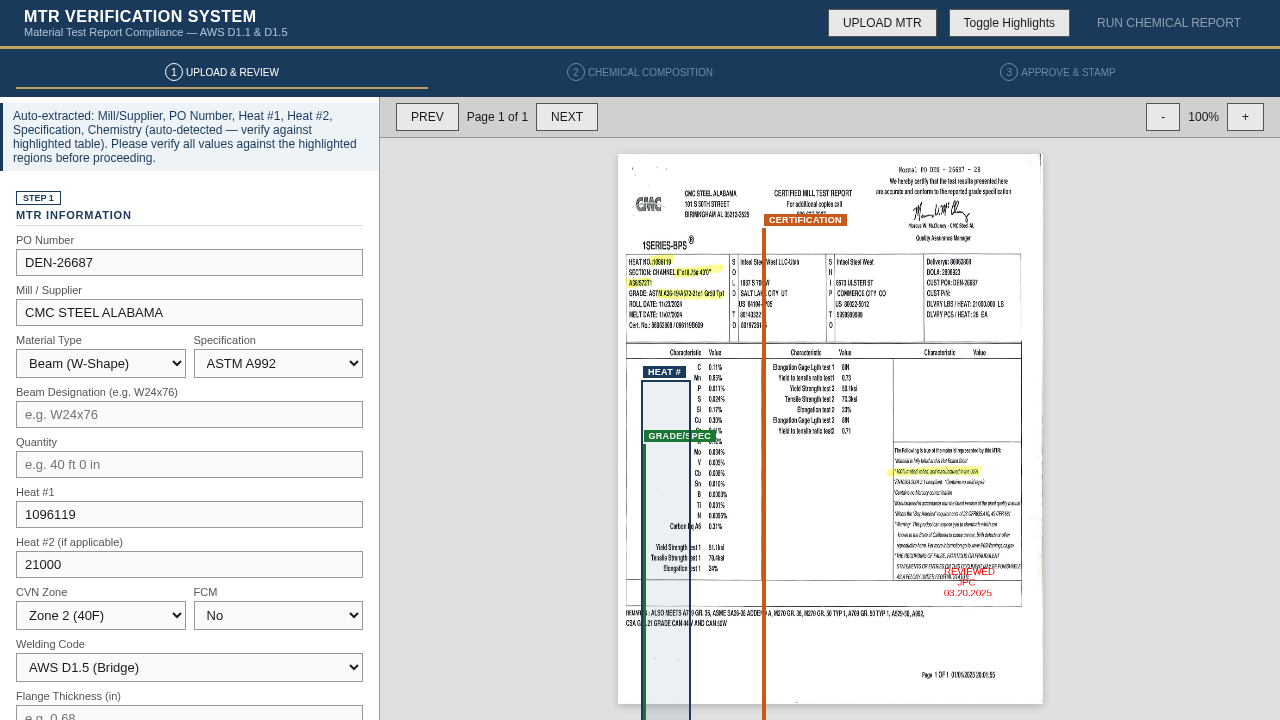
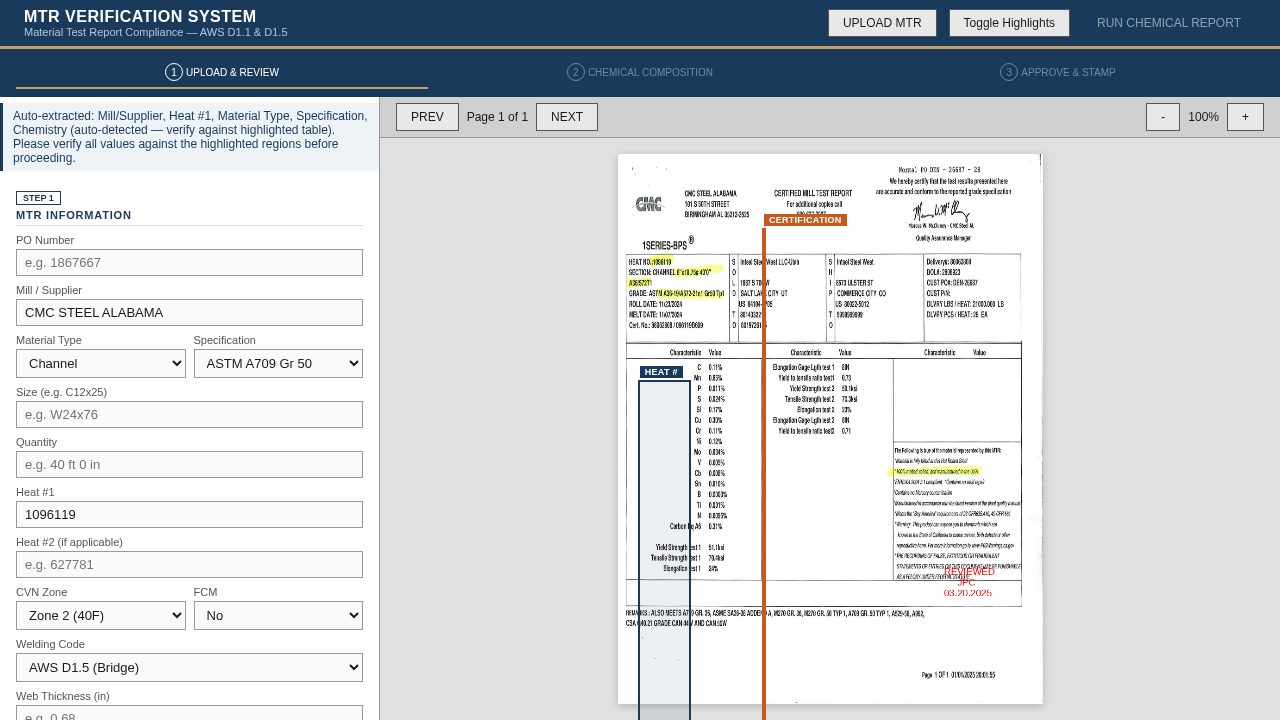
Auto-commit agent changes

diff --git a/conversations/6a6b81c94bc0607c48a32cc0/mtr_verifier.html b/conversations/6a6b81c94bc0607c48a32cc0/mtr_verifier.html
@@ -678,7 +678,7 @@ async function extractMtrData() {
       for (var p = 1; p <= numPages; p++) {
         if (!pageContentCache[p] || pageContentCache[p].type !== 'scanned-pending') continue;
         area.innerHTML = '<div class="extract-status">Running OCR on page ' + p + ' of ' + numPages + ' (scanned document)...</div>';
-        var ocrScale = 3.0;
+        var ocrScale = 4.0;
         var opage = await pdfDoc.getPage(p);
         var ovp = opage.getViewport({ scale: ocrScale });
         var ocrCanvas = document.createElement('canvas');
@@ -727,96 +727,188 @@ async function extractMtrData() {
 
 function parseMtrText(text, area) {
   var found = [];
-  // Normalize: collapse whitespace but keep newlines as single spaces too (OCR line breaks are unreliable)
   var norm = text.replace(/[ \t]+/g, ' ').replace(/\s*\n\s*/g, ' \n ').trim();
   var flat = norm.replace(/\n/g, ' ').replace(/\s+/g, ' ');
 
   // ---------- MILL / SUPPLIER ----------
   var millPatterns = [
-    /NUCOR[\-\s]?YAMATO\s*STEEL\s*(?:CO\.?|COMPANY)?/i,
-    /NUCOR\s+STEEL\s+\w+(?:,?\s*INC\.?)?/i,
-    /CMC\s+STEEL\s*\w*/i,
-    /ATLAS\s+TUBE\s*\w*/i,
-    /ARCELORMITTAL[\w\s]*/i,
-    /GERDAU[\w\s]*/i,
-    /SSAB[\w\s]*/i,
-    /STEEL\s+DYNAMICS[\w\s]*/i,
-    /CHARTER\s+STEEL[\w\s]*/i,
-    /EVRAZ[\w\s]*/i,
-    /INTSEL\s+STEEL[\w\s]*/i
+    [/NUCOR[\-\s]?YAMATO\s*STEEL\s*(?:CO\.?|COMPANY)?/i, 'Nucor-Yamato Steel'],
+    [/NUCOR\s+STEEL\s+TUSCALOOSA/i, 'Nucor Steel Tuscaloosa'],
+    [/NUCOR\s+STEEL[\w\s,\.]*INC\.?/i, null],
+    [/CMC\s+STEEL\s*\w*/i, null],
+    [/ATLAS\s*TUBE/i, 'Atlas Tube'],
+    [/Al\s*Ti\s*be/i, 'Atlas Tube'],
+    [/DIVISION\s+OF\s+ZEKELMAN/i, 'Atlas Tube'],
+    [/BLYTHEVILLE.*ARKANSAS/i, 'Atlas Tube'],
+    [/ZEKELMAN[\w\s]*/i, 'Zekelman Industries'],
+    [/ARCELORMITTAL[\w\s]*/i, null],
+    [/GERDAU[\w\s]*/i, null],
+    [/SSAB[\w\s]*/i, null],
+    [/STEEL\s+DYNAMICS[\w\s]*/i, null],
+    [/CHARTER\s+STEEL[\w\s]*/i, null],
+    [/EVRAZ[\w\s]*/i, null],
+    [/INTSEL\s+STEEL\s+\w+/i, null]
   ];
   for (var mi = 0; mi < millPatterns.length; mi++) {
-    var mm = flat.match(millPatterns[mi]);
-    if (mm) { document.getElementById('mill-name').value = mm[0].trim().replace(/\s+/g,' '); found.push('Mill/Supplier'); break; }
+    var mm = flat.match(millPatterns[mi][0]);
+    if (mm) {
+      var millName = millPatterns[mi][1] || mm[0].trim().replace(/\s+/g,' ').substring(0, 50);
+      document.getElementById('mill-name').value = millName;
+      found.push('Mill/Supplier');
+      break;
+    }
   }
 
   // ---------- PO NUMBER ----------
-  // Covers: "Customer P.O. 841392", "CUST PO#: 34182", "PO NO 1707213", "Purchase Order: DEN-27239", "Normal PO DEN - 26687 - 28"
   var poPatterns = [
     /CUST(?:OMER)?\.?\s*P\.?\s*O\.?\s*(?:NO\.?|NUMBER|#)?\s*[:\-]?\s*([A-Z]{0,4}\-?\d{4,10})/i,
     /\bP\.?\s*O\.?\s*(?:NO\.?|NUMBER|#)\s*[:\-]?\s*([A-Z]{0,4}\-?\d{4,10})/i,
     /PURCHASE\s+ORDER\s*[:\-]?\s*([A-Z]{0,4}\-?\d{4,10})/i,
-    /\bPO\s*[:#\-]\s*([A-Z]{0,4}\-?\d{4,10})/i
+    /\bPO\s*[:#\-]\s*([A-Z]{0,4}\-?\d{4,10})/i,
+    /Normal\s*PO\s*([A-Z]{0,4}\s*\-?\s*\d{4,10})/i
   ];
   for (var pi = 0; pi < poPatterns.length; pi++) {
     var pm = flat.match(poPatterns[pi]);
-    if (pm) { document.getElementById('po-number').value = pm[1].trim(); found.push('PO Number'); break; }
+    if (pm) {
+      document.getElementById('po-number').value = pm[1].trim().replace(/\s+/g,'');
+      found.push('PO Number');
+      break;
+    }
   }
 
   // ---------- HEAT NUMBERS ----------
-  // Covers: "Heat# 496186", "HEAT NO.:1097247", "Heat/Slab Number 243539-01", "Heat No 822K36240"
+  // OCR-tolerant: handles t->1, s->5, l->1 substitutions. Excludes weight/qty numbers.
   var heatNums = [];
-  var heatPatterns = [
-    /HEAT\s*(?:\/\s*SLAB)?\s*(?:NO\.?|NUMBER|#)?\s*[:\-]?\s*([A-Z0-9]{5,10})/gi
-  ];
+  // First try: find "HEAT" label followed by a number (most reliable)
+  var heatLabelRe = /HEAT\s*(?:\/\s*SLAB)?\s*(?:NO\.?|NUMBER|#)?\s*[:\-]?\s*([A-Z0-9tTsSlIoO]{5,10})/gi;
   var hm;
-  heatPatterns.forEach(function(re) {
-    while ((hm = re.exec(flat)) !== null) {
-      var val = hm[1].replace(/[^A-Z0-9]/gi, '');
-      // Filter obvious non-heat matches (too short/long, or pure section words)
-      if (val.length >= 5 && val.length <= 10 && heatNums.indexOf(val) === -1) heatNums.push(val);
+  while ((hm = heatLabelRe.exec(flat)) !== null) {
+    var raw = hm[1];
+    // Fix common OCR substitutions in heat numbers
+    var val = raw.replace(/t/gi, '1').replace(/I/g, '1').replace(/o/gi, '0').replace(/[^A-Z0-9]/gi, '');
+    // Must be mostly digits (real heat numbers)
+    var digitCount = (val.match(/\d/g) || []).length;
+    if (val.length >= 5 && val.length <= 10 && digitCount >= 4 && heatNums.indexOf(val) === -1) {
+      // Exclude obvious non-heat values (weights, dates, etc.)
+      var ctx = flat.substring(Math.max(0, hm.index - 20), hm.index);
+      if (!/LBS|PCS|LB\s|WEIGHT|DLVRY|Date|Total/i.test(ctx)) {
+        heatNums.push(val);
+      }
     }
-  });
+  }
+  // Fallback: look for "Slab" numbers (Nucor Tuscaloosa format: "243539-01")
+  if (heatNums.length === 0) {
+    var slabRe = /SLAB\s*(?:NO\.?|NUMBER|#)?\s*[:\-]?\s*(\d{5,7})\-?\d*/gi;
+    while ((hm = slabRe.exec(flat)) !== null) {
+      if (heatNums.indexOf(hm[1]) === -1) heatNums.push(hm[1]);
+    }
+  }
+  // Fallback: for Nucor Tuscaloosa, heat number appears in table row like "243539-01"
+  if (heatNums.length === 0) {
+    var tableHeatRe = /\b(\d{6})\-0\d\b/g;
+    while ((hm = tableHeatRe.exec(flat)) !== null) {
+      var ctx2 = flat.substring(Math.max(0, hm.index - 100), hm.index + 100);
+      if (/Heat|Slab|Certified/i.test(ctx2) && heatNums.indexOf(hm[1]) === -1) heatNums.push(hm[1]);
+    }
+  }
   if (heatNums[0]) { document.getElementById('heat1').value = heatNums[0]; found.push('Heat #1'); }
   if (heatNums[1]) { document.getElementById('heat2').value = heatNums[1]; found.push('Heat #2'); }
 
   // ---------- SHAPE / TYPE DESIGNATION ----------
-  // Beam: W18X65.0, Channel: C8X1875 (i.e. C8X18.75), Angle: L4X3X.25, HSS: HSS10SQX375 / 10.0x10.0x.375, Plate: dimensions
-  var sizeMatch = flat.match(/\b([WHC]\d{1,2}\s*[Xx]\s*\d{1,3}(?:\.\d+)?|L\s*\d(?:\.\d+)?\s*[Xx]\s*\d(?:\.\d+)?\s*[Xx]\s*[\d\/\.]+|HSS\s*\d+(?:\.\d+)?\s*[Xx]\s*\d+(?:\.\d+)?\s*[Xx]\s*[\d\/\.]+)\b/i);
-  if (sizeMatch) { document.getElementById('beam-type').value = sizeMatch[1].toUpperCase().replace(/\s+/g,''); found.push('Type/Size'); }
-
-  // Plate dimensions e.g. "0.3750 IN x 96.000 IN x 240.000 IN"
-  var plateMatch = flat.match(/(\d+\.\d+)\s*IN\s*[Xx]\s*(\d+\.\d+)\s*IN\s*[Xx]\s*(\d+\.\d+)\s*IN/i);
-  if (plateMatch && !sizeMatch) {
-    document.getElementById('beam-type').value = plateMatch[1] + 'x' + plateMatch[2] + 'x' + plateMatch[3];
-    found.push('Type/Size (Plate dimensions)');
+  var sizeMatch = null, sizeStr = '';
+  // Pattern 0: "SECTION: ANG 4 X 3x1/4" or "SECTION: CHANNEL 8X18.75" (CMC format)
+  var sectionMatch = flat.match(/SECTION\s*[:\-]?\s*(?:ANG(?:LE)?\s*)?(\d\s*[Xx]\s*\d(?:\.\d+)?\s*[Xx]\s*[\d\/\.]+|\d\s*[Xx]\s*\d{1,3}(?:\.\d+)?)/i);
+  if (sectionMatch) {
+    sizeStr = sectionMatch[1].toUpperCase().replace(/\s+/g,'');
+  }
+  // Pattern 1: W18X65, W24x76, C8x18.75 etc. (standard AISC shapes)
+  if (!sizeStr) {
+    sizeMatch = flat.match(/\b([WHC]\d{1,2}\s*[Xx]\s*\d{1,3}(?:\.\d+)?)\b/);
+    if (sizeMatch) sizeStr = sizeMatch[1].toUpperCase().replace(/\s+/g,'');
+  }
+  // Pattern 2: L4X3X1/4 or L4 X 3 X .25 (angle)
+  if (!sizeStr) {
+    sizeMatch = flat.match(/\bL\s*(\d)\s*[Xx]\s*(\d)\s*[Xx]\s*([\d\/\.]+)/i);
+    if (sizeMatch) sizeStr = 'L' + sizeMatch[1] + 'X' + sizeMatch[2] + 'X' + sizeMatch[3];
+  }
+  // Pattern 3: HSS10SQX375 or HSS 10x10x.375
+  if (!sizeStr) {
+    sizeMatch = flat.match(/HSS\s*(\d+(?:\.\d+)?)\s*[XxSQ\s]+\s*(\d+(?:\.\d+)?)?\s*[Xx]\s*([\d\.\/]+)/i);
+    if (sizeMatch) sizeStr = 'HSS' + sizeMatch[1] + (sizeMatch[2] ? 'X' + sizeMatch[2] : 'SQ') + 'X' + sizeMatch[3];
+  }
+  // Pattern 4: Plate dims "0.3750 IN x 96.000 IN x 240.000 IN" or "0.375 x 96 x 240"
+  if (!sizeStr) {
+    sizeMatch = flat.match(/(\d+\.\d+)\s*IN\s*[Xx]\s*(\d+\.\d+)\s*IN\s*[Xx]\s*(\d+\.\d+)\s*IN/i);
+    if (sizeMatch) sizeStr = sizeMatch[1] + 'x' + sizeMatch[2] + 'x' + sizeMatch[3];
+  }
+  if (sizeStr) {
+    document.getElementById('beam-type').value = sizeStr;
+    found.push('Type/Size');
   }
 
-  // ---------- QUANTITY / LENGTH (per user rule: do not highlight, but still capture as data if present) ----------
-  var qtyMatch = flat.match(/(\d+\s*ft\s*\d*\s*in|\d+'\s*-?\s*\d*\s*\d*\/?\d*")/i);
-  if (qtyMatch) { document.getElementById('quantity').value = qtyMatch[1].trim(); found.push('Quantity'); }
-
-  // ---------- MATERIAL TYPE + SPEC ----------
-  var specDetected = null, matDetected = null;
-  if (/A709[\s\-\/]*(?:GR(?:ADE)?\.?\s*)?50W|A588.{0,25}50W/i.test(flat)) { specDetected = 'A709-50W'; }
-  else if (/A500[\s\-]*(?:GR(?:ADE)?\.?\s*)?B\s*(?:&|AND)?\s*C?/i.test(flat)) { specDetected = 'A500-B'; matDetected = 'hss-square'; }
-  else if (/A588/i.test(flat)) { specDetected = 'A588'; }
-  else if (/A992/i.test(flat)) { specDetected = 'A992'; }
-  else if (/A709[\s\-\/]*(?:GR(?:ADE)?\.?\s*)?50\b/i.test(flat)) { specDetected = 'A709-50'; }
-  else if (/A572[\s\-\/]*(?:GR(?:ADE)?\.?\s*)?50/i.test(flat)) { specDetected = 'A572-50'; }
-  else if (/A36\b/i.test(flat)) { specDetected = 'A36'; }
-
-  if (sizeMatch && /^HSS/i.test(sizeMatch[1])) matDetected = matDetected || 'hss-square';
-  else if (sizeMatch && /^W/i.test(sizeMatch[1])) matDetected = matDetected || 'beam';
-  else if (sizeMatch && /^L/i.test(sizeMatch[1])) matDetected = matDetected || 'angle';
-  else if (sizeMatch && /^C/i.test(sizeMatch[1])) matDetected = matDetected || 'channel';
-  else if (plateMatch) matDetected = matDetected || 'plate';
-  else if (/\bPLATE\b/i.test(flat)) matDetected = matDetected || 'plate';
-
+  // ---------- MATERIAL TYPE ----------
+  var matDetected = null;
+  if (/\bHSS\b|\bTUBE\b|\bSQUARE\s*TUBE/i.test(flat)) matDetected = 'hss-square';
+  else if (/\bANGLE\b|\bANG\s+\d/i.test(flat)) matDetected = 'angle';
+  else if (/\bCHANNEL\b|\bCHANNEL\s+\d/i.test(flat)) matDetected = 'channel';
+  else if (/\bPLATE\b|\bHOT\s*ROL\s*PLATE/i.test(flat)) matDetected = 'plate';
+  else if (/\bBEAM\b|\bW\d+\s*[Xx]\s*\d/i.test(flat)) matDetected = 'beam';
+  else if (sizeStr && /^W/i.test(sizeStr)) matDetected = 'beam';
+  else if (sizeStr && /^L/i.test(sizeStr)) matDetected = 'angle';
+  else if (sizeStr && /^C/i.test(sizeStr)) matDetected = 'channel';
+  else if (sizeStr && /^HSS/i.test(sizeStr)) matDetected = 'hss-square';
   if (matDetected) {
     document.getElementById('mat-type').value = matDetected;
     onMaterialChange();
     found.push('Material Type');
+  }
+
+  // ---------- SPECIFICATION ----------
+  var specDetected = null;
+
+  // STEP 1: GRADE: label — the spec printed next to "GRADE:" is always the primary spec (most reliable)
+  var gradeLabelMatch = flat.match(/GRADE\s*[:\-]?\s*(ASTM\s*)?(A\d{3}[\w\-\/\.\s]*(?:Gr(?:ade)?\.?\s*)?\d{0,2}[Ww]?)/i);
+  if (gradeLabelMatch) {
+    var gradeSpec = gradeLabelMatch[2].toUpperCase().replace(/\s+/g, '');
+    var specMatch2 = gradeSpec.match(/A(\d{3})/);
+    if (specMatch2) {
+      var baseSpec = 'A' + specMatch2[1];
+      if (/50W/i.test(gradeSpec)) specDetected = 'A709-50W';
+      else if (baseSpec === 'A709' && /50/.test(gradeSpec)) specDetected = 'A709-50';
+      else if (baseSpec === 'A588') specDetected = 'A588';
+      else if (baseSpec === 'A572' && /50/.test(gradeSpec)) specDetected = 'A572-50';
+      else if (baseSpec === 'A500') specDetected = 'A500-B';
+      else if (baseSpec === 'A992') specDetected = 'A992';
+      else if (baseSpec === 'A36') specDetected = 'A36';
+      else if (baseSpec === 'A529' && /50/.test(gradeSpec)) specDetected = 'A572-50';
+    }
+  }
+
+  // STEP 2: If no GRADE: label found, fall back to pattern matching (less reliable — may hit remarks)
+  if (!specDetected) {
+    if (/\bA709[\s\-\/]*(?:\d{2})?[\s\-\/]*(?:GR(?:ADE)?\.?\s*)?50W\b/i.test(flat)) specDetected = 'A709-50W';
+    else if (/\bA588\b/i.test(flat)) {
+      var a588pos = flat.search(/\bA588\b/i);
+      var ctxAround = flat.substring(Math.max(0, a588pos - 30), a588pos + 40);
+      if (!/ALSO\s+MEETS|REMARKS/i.test(ctxAround)) specDetected = 'A588';
+    }
+    else if (/\b588\b/.test(flat) && /PLATE|COIL|HOT\s*ROL/i.test(flat)) specDetected = 'A588';
+    else if (/\bA709[\s\-\/]*(?:\d{2})?[\s\-\/]*(?:GR(?:ADE)?\.?\s*)?50\b/i.test(flat)) {
+      var a709pos = flat.search(/\bA709[\s\-\/]*(?:\d{2})?[\s\-\/]*(?:GR(?:ADE)?\.?\s*)?50\b/i);
+      var ctx709 = flat.substring(Math.max(0, a709pos - 30), a709pos + 50);
+      if (!/ALSO\s+MEETS|REMARKS/i.test(ctx709)) specDetected = 'A709-50';
+    }
+    else if (/\bA572[\s\-\/]*(?:GR(?:ADE)?\.?\s*)?50/i.test(flat)) specDetected = 'A572-50';
+    else if (/\bA500[\s\-\/]*(?:GR(?:ADE)?\.?\s*)?[BC]/i.test(flat)) { specDetected = 'A500-B'; matDetected = matDetected || 'hss-square'; }
+    else if (/\bA992\b/i.test(flat)) specDetected = 'A992';
+    else if (/\bA36\b/i.test(flat)) specDetected = 'A36';
+  }
+
+  // STEP 3: A709-50W override — only if A709 Gr50W appears BEFORE A588 (both as clear matches)
+  var a709Idx = flat.search(/\bA709[^\n]{0,20}50W/i);
+  var a588Idx = flat.search(/\bA588\b/i);
+  if (a709Idx !== -1 && a588Idx !== -1 && a709Idx < a588Idx) {
+    specDetected = 'A709-50W';
   }
   if (specDetected) {
     var sel = document.getElementById('spec-select');
@@ -828,7 +920,6 @@ function parseMtrText(text, area) {
   }
 
   // ---------- CHEMISTRY ----------
-  // Strategy A: "Element  0.NN%" or "Element: 0.NN" label:value pairs (CMC-style) — most reliable, try first.
   var elemAliases = {
     C:'C', MN:'Mn', P:'P', S:'S', SI:'Si', CU:'Cu', NI:'Ni', CR:'Cr', MO:'Mo',
     V:'V', CB:'Cb', NB:'Cb', SN:'Sn', B:'B', TI:'Ti', N:'N', N2:'N', CA:'Ca',
@@ -836,18 +927,33 @@ function parseMtrText(text, area) {
   };
   var elemKeys = Object.keys(elemAliases).sort(function(a,b){ return b.length - a.length; });
 
+  // Range validation — reject physically impossible values
+  var elemRanges = {
+    C: [0, 0.25], MN: [0, 2.0], P: [0, 0.10], S: [0, 0.08], SI: [0, 1.0],
+    CU: [0, 1.0], NI: [0, 1.0], CR: [0, 1.5], MO: [0, 0.5], V: [0, 0.15],
+    CB: [0, 0.05], NB: [0, 0.05], SN: [0, 0.05], B: [0, 0.005], TI: [0, 0.05],
+    N: [0, 0.02], CA: [0, 0.01], AL: [0, 0.1], ZR: [0, 0.01],
+    CE: [0, 1.0], PCM: [0, 0.5], CI: [0, 20]
+  };
+
+  function validValue(elem, val) {
+    var r = elemRanges[elem.toUpperCase()];
+    if (!r) return true;
+    var v = parseFloat(val);
+    return v >= r[0] && v <= r[1];
+  }
+
   function findLabelValuePairs(sourceText) {
     var out = {};
     var re = new RegExp('\\b(' + elemKeys.join('|') + ')\\b\\s*[:\\-]?\\s*(\\d{1,2}\\.\\d{2,4})\\s*%?', 'gi');
     var m;
     while ((m = re.exec(sourceText)) !== null) {
       var key = elemAliases[m[1].toUpperCase()];
-      if (key && out[key] === undefined) out[key] = m[2];
+      if (key && out[key] === undefined && validValue(key, m[2])) out[key] = m[2];
     }
     return out;
   }
 
-  // Strategy B: table header row of element symbols followed shortly after by a row of decimal numbers (Nucor/Atlas-style dense tables)
   function findTableRow(sourceText) {
     var out = {};
     var headerRe = new RegExp('((?:\\b(?:' + elemKeys.join('|') + ')\\b[\\s,]*){3,})', 'i');
@@ -861,12 +967,11 @@ function parseMtrText(text, area) {
     var count = Math.min(headers.length, nums.length);
     for (var k = 0; k < count; k++) {
       var key = elemAliases[headers[k].toUpperCase()];
-      if (key && out[key] === undefined) out[key] = nums[k];
+      if (key && out[key] === undefined && validValue(key, nums[k])) out[key] = nums[k];
     }
     return out;
   }
 
-  // Split text roughly into two halves around the 2nd heat number (if present) to separate heat 1 / heat 2 chemistry
   var chemAssigned = 0;
   if (heatNums.length >= 2) {
     var idx1 = flat.indexOf(heatNums[0]);

diff --git a/conversations/6a6b81c94bc0607c48a32cc0/test_highlights.js b/conversations/6a6b81c94bc0607c48a32cc0/test_highlights.js
@@ -1,0 +1,37 @@
+const { chromium } = require('playwright');
+
+(async () => {
+  const browser = await chromium.launch();
+  const page = await browser.newPage();
+  const errors = [];
+  page.on('pageerror', err => errors.push(err.message));
+  page.on('dialog', async d => { await d.accept(); });
+
+  // Use CMC angle (best extraction result)
+  await page.goto('http://localhost:8899/mtr_verifier.html', { waitUntil: 'networkidle' });
+  await page.waitForTimeout(300);
+
+  const fileInput = await page.$('#file-input');
+  await fileInput.setInputFiles('incoming_files/ed52b1343_1097247L4X3X25A588WITHCVNPO-1718311.pdf');
+
+  // Wait for OCR
+  for (let i = 0; i < 60; i++) {
+    await page.waitForTimeout(2000);
+    const statusText = await page.evaluate(() => document.getElementById('extract-area')?.innerText || '');
+    if (statusText.includes('Auto-extracted') || statusText.includes('Could not')) break;
+  }
+
+  // Make sure highlights are visible
+  await page.evaluate(() => {
+    if (!window.hlVisible) toggleHighlights();
+    // Make sure all chips are active
+    document.querySelectorAll('.hl-chip').forEach(c => c.classList.add('active'));
+    if (window.drawHL) drawHL();
+  });
+  await page.waitForTimeout(1000);
+
+  await page.screenshot({ path: 'test_cmc_angle_highlights.png', fullPage: false });
+  console.log('Errors:', errors);
+
+  await browser.close();
+})();
